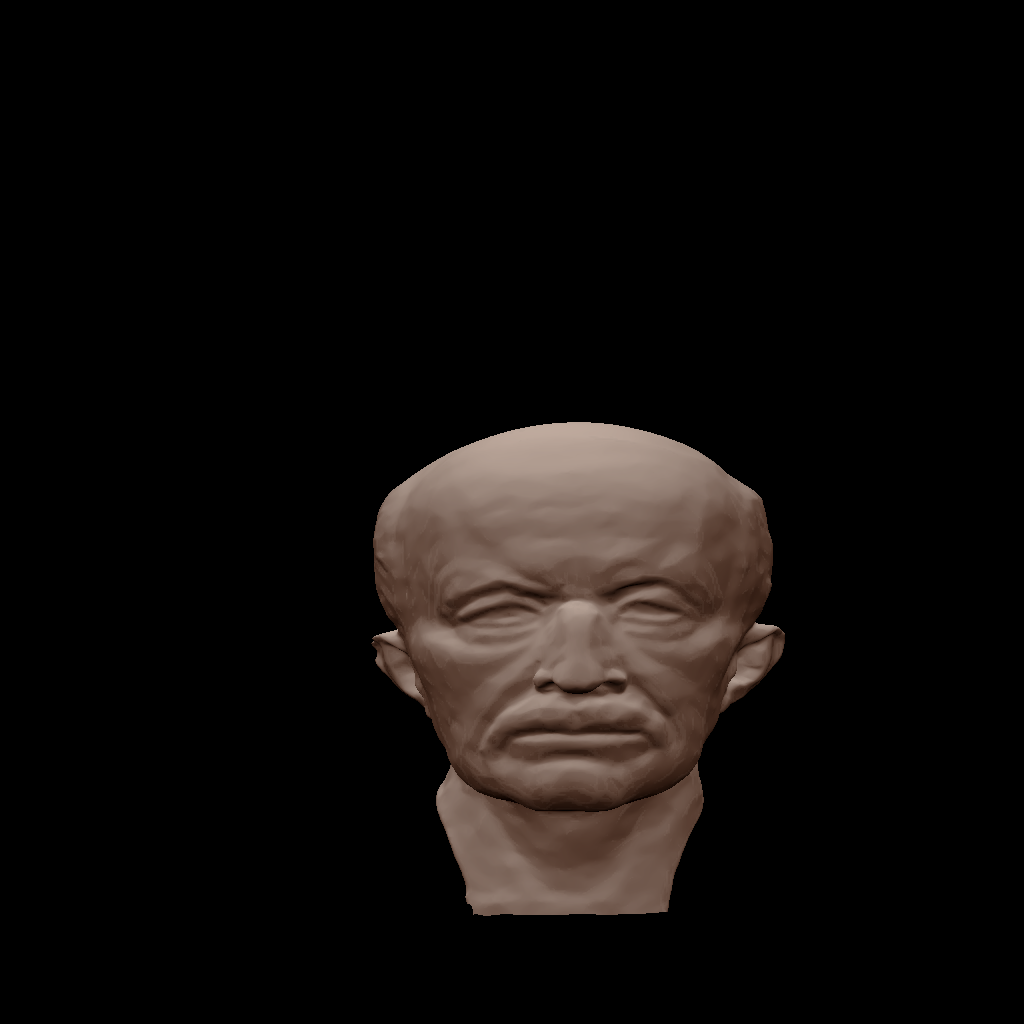
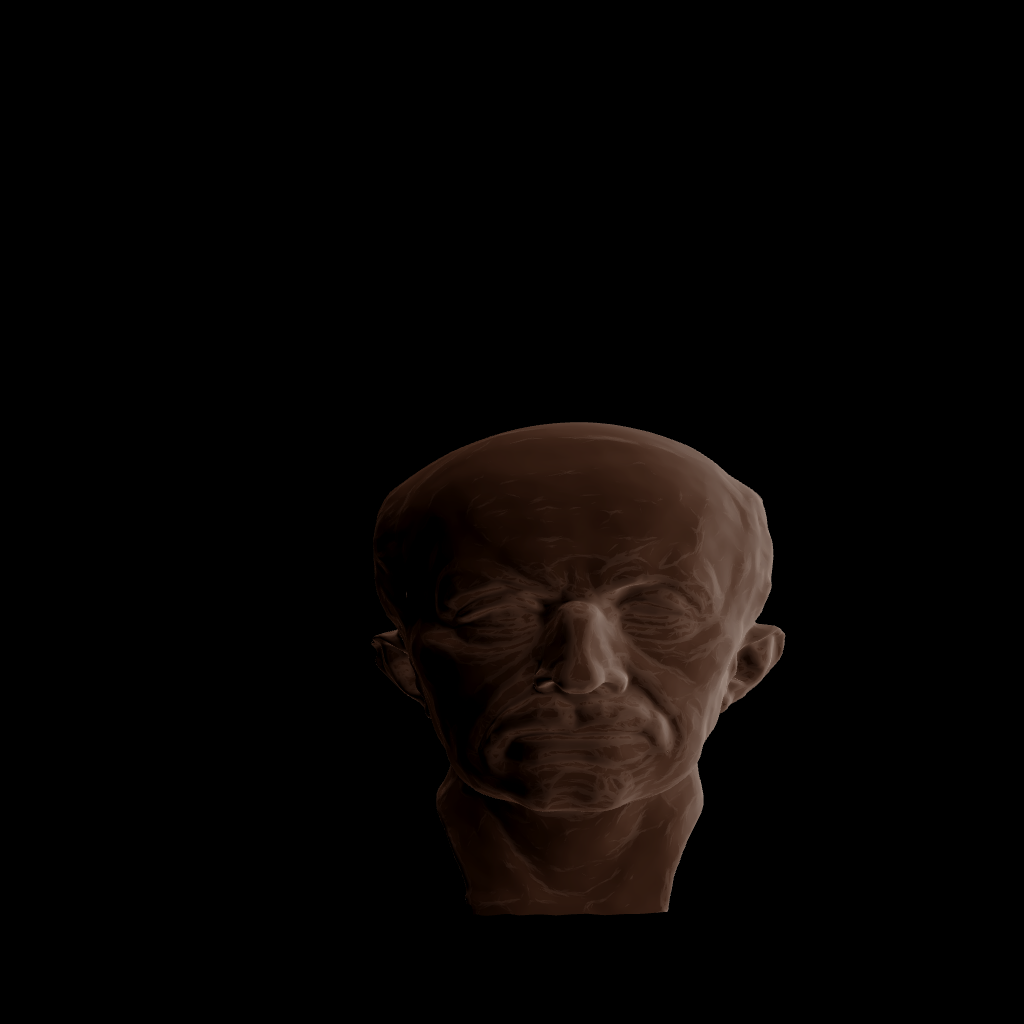
remove deferred rendering pass

Changed region(s): [[0.3438, 0.4062, 0.7812, 0.9062]]

diff --git a/src/main.py b/src/main.py
@@ -49,8 +49,6 @@ def main():
         print("Received model data...")
     attrib = reader.GetAttrib()
     vertex_array = np.array(attrib.vertices, dtype=np.float32).reshape(-1, 3)
-    min_curvature = 20.0 / np.linalg.norm(vertex_array.max(0) - vertex_array.min(0))
-    print(min_curvature)
     normal_vectors = np.array(attrib.normals, dtype=np.float32).reshape(-1, 3)
     normal_index_array = np.array([
         index.normal_index for shape in reader.GetShapes() for index in shape.mesh.indices
@@ -62,38 +60,29 @@ def main():
     normal_array /= np.linalg.norm(normal_array, axis=1).reshape((-1, 1))
     ccw_check_kernel(triangle_array, vertex_array, normal_array)
     print("Model data parsing done...")
-    ctx = moderngl.create_standalone_context(450)
+    ctx = moderngl.create_standalone_context(330)
     ibo = ctx.buffer(triangle_array)
     nbo = ctx.buffer(normal_array)
     vbo = ctx.buffer(vertex_array)
-    """
-        Pass 1: Render to G-buffer
-        - Position in world coordinates
-        - Normal vector
-    """
-    with open("shaders/pass-1.glsl", "r") as f:
-        shader_source = f.read()
+    with open("shaders/vertex.glsl", "r") as f:
+        vertex_shader_source = f.read()
+    with open("shaders/fragment.glsl", "r") as f:
+        fragment_shader_source = f.read()
     program = ctx.program(
-        vertex_shader=shader_source.replace("SHADER_TYPE", "VERTEX_SHADER"),
-        fragment_shader=shader_source.replace("SHADER_TYPE", "FRAGMENT_SHADER")
+        vertex_shader=vertex_shader_source,
+        fragment_shader=fragment_shader_source
     )
     camera = Camera(Vector3([0.0, 1.0, -10.0]), Vector3([0.0, 0.5, 0.0]), res, 20.0)
     program["mvp"].write(camera.mvp)
-    g_position = ctx.texture(res, 3, dtype="f4")
-    g_normal = ctx.texture(res, 3, dtype="f4")
-    depth_buffer = ctx.depth_renderbuffer(res)
-    framebuffer = ctx.framebuffer([g_position, g_normal], depth_buffer)
     vao = ctx.vertex_array(
         program,
         [
-            (vbo, "3f", "vertPos"),
-            (nbo, "3f", "vertNormal")
+            (vbo, "3f", "vertex_pos"),
+            (nbo, "3f", "vertex_normal")
         ],
         index_buffer=ibo
     )
-    with ctx.scope(framebuffer, moderngl.CULL_FACE | moderngl.DEPTH_TEST):
-        framebuffer.clear()
-        vao.render()
+    depth_buffer = ctx.depth_renderbuffer(res, samples=4)
     point_light_size = struct.calcsize("=3f4x3f4x")
     point_light_array = scene["point_lights"]
     buffer = bytearray(max(len(point_light_array), 1) * point_light_size)
@@ -116,47 +105,22 @@ def main():
             *direction_light["direction"]
         )
     direction_light_buffer = ctx.buffer(buffer)
-    """
-        Pass 2: Render from G-buffer
-    """
-    with open("shaders/pass-2.glsl", "r") as f:
-        shader_source = f.read()
-    program = ctx.program(
-        vertex_shader=shader_source.replace("SHADER_TYPE", "VERTEX_SHADER"),
-        fragment_shader=(shader_source
-                         .replace("SHADER_TYPE", "FRAGMENT_SHADER")
-                         .replace("SPECULAR_OPTION", "WITH_SPECULAR" if scene["specular-on"] else "WITHOUT_SPECULAR")
-                         )
-    )
     look_up_table = ctx.texture(LUT_RES, 3, Image.open("look_up_table.png").tobytes(), dtype="f1")
     look_up_table.repeat_x = False
     look_up_table.repeat_y = False
-    program["lookUpTable"] = 0
+    program["lut"] = 0
     look_up_table.use(0)
-    program["gPos"] = 1
-    g_position.use(1)
-    program["gNormal"] = 2
-    g_normal.use(2)
-    program["tuneCurvature"] = scene["tune-curvature"]
-    program["minCurvature"] = min_curvature
-    program["numPointLights"] = len(point_light_array)
-    program["numDirectionLights"] = len(direction_light_array)
+    program["min_curvature"] = scene["min-curvature"]
+    program["max_curvature"] = scene["max-curvature"]
+    program["num_point_lights"] = len(point_light_array)
+    program["num_direction_lights"] = len(direction_light_array)
     point_light_buffer.bind_to_uniform_block(0)
     direction_light_buffer.bind_to_uniform_block(1)
-    vbo = ctx.buffer(np.array([
-        [-1.0, -1.0, 0.1],
-        [1.0, -1.0, 0.1],
-        [1.0, 1.0, 0.1],
-        [-1.0, -1.0, 0.1],
-        [1.0, 1.0, 0.1],
-        [-1.0, 1.0, 0.1],
-    ], dtype=np.float32))
-    vao = ctx.vertex_array(program, [(vbo, "3f", "vertPos")])
     render_target_msaa = ctx.texture(res, 3, samples=4, dtype='f4')
     render_target = ctx.texture(res, 3, dtype="f4")
-    framebuffer_msaa = ctx.framebuffer([render_target_msaa])
+    framebuffer_msaa = ctx.framebuffer([render_target_msaa], depth_attachment=depth_buffer)
     framebuffer = ctx.framebuffer([render_target])
-    with ctx.scope(framebuffer_msaa):
+    with ctx.scope(framebuffer_msaa, moderngl.DEPTH_TEST | moderngl.CULL_FACE):
         framebuffer_msaa.clear()
         vao.render()
     gl.glBindFramebuffer(gl.GL_READ_FRAMEBUFFER, framebuffer_msaa.glo)

diff --git a/src/lut.py b/src/lut.py
@@ -63,7 +63,7 @@ def generate_lut():
             np.zeros((6, 1), dtype=np.float32)
         ])
     )
-    with open("shaders/pass-0.glsl", "r") as f:
+    with open("shaders/lut.glsl", "r") as f:
         shader_source = f.read()
     program = ctx.program(
         vertex_shader=shader_source.replace("SHADER_TYPE", "VERTEX_SHADER"),
